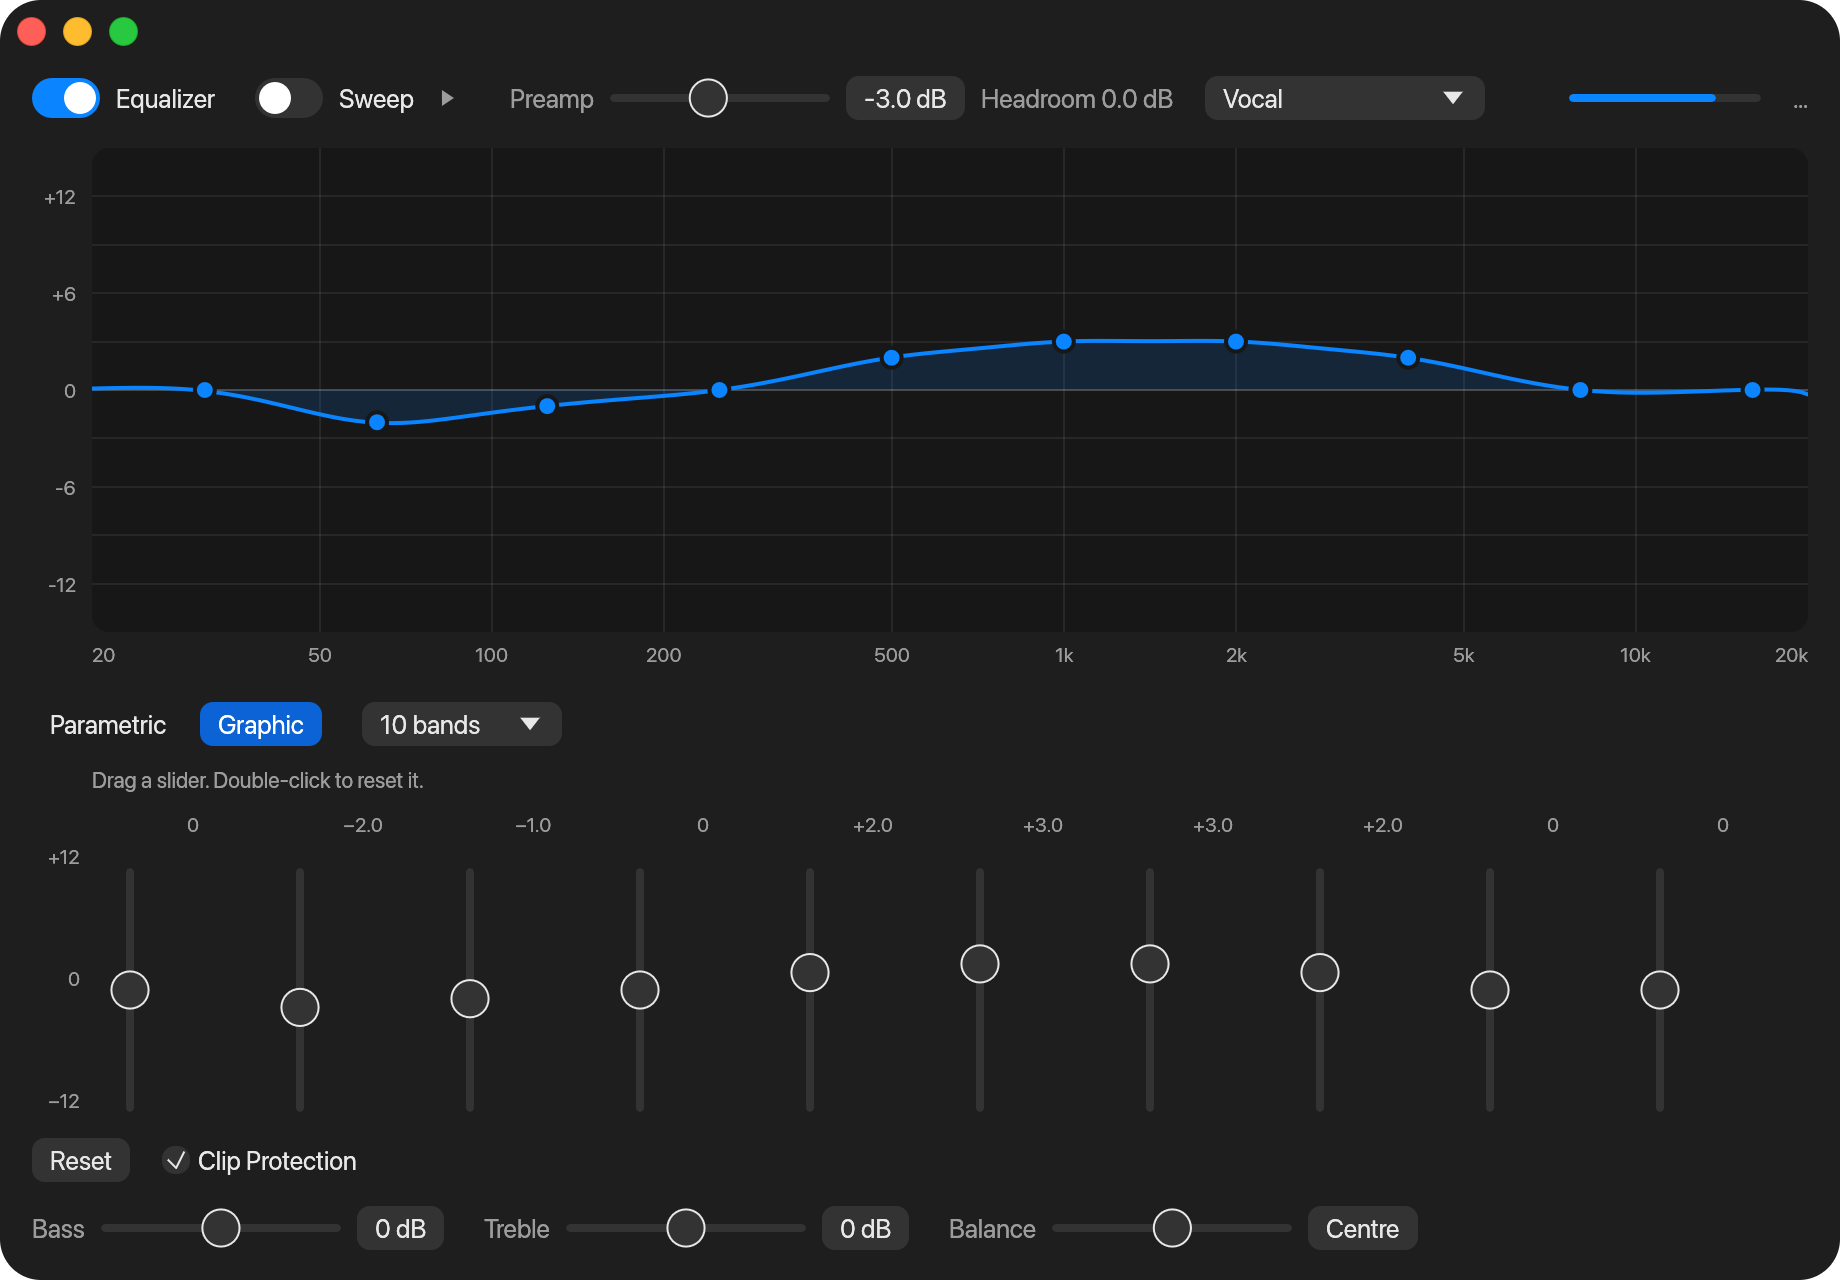
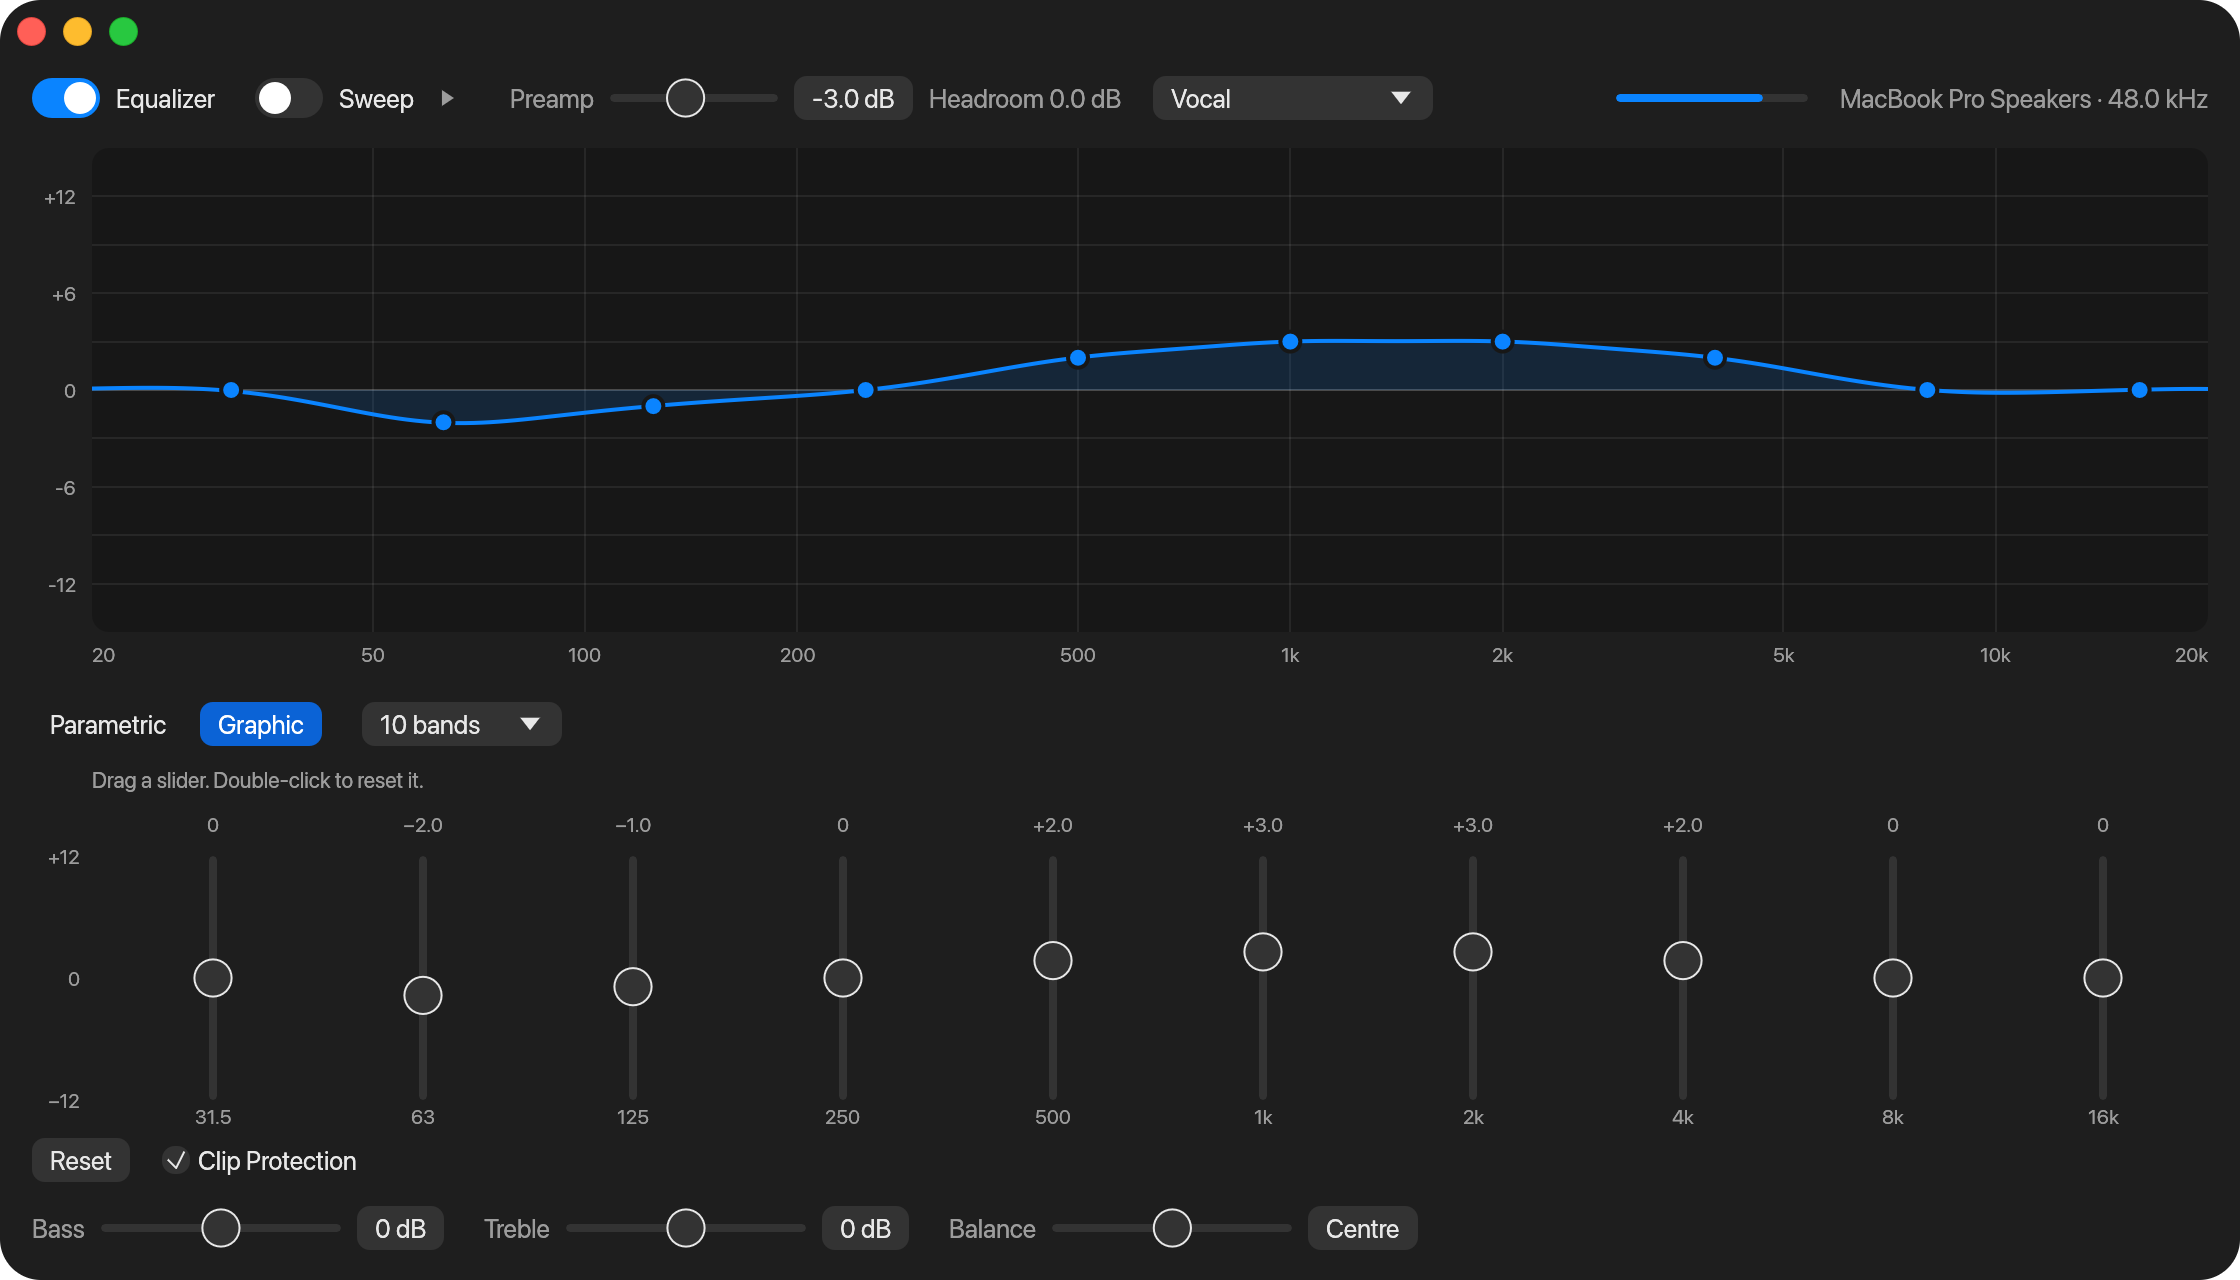
fix: graphic labels and top-end overshoot, sweep panel placement, device name
- Graphic mode: vertical item spacing pushed the frequency labels out of each slider's
  column, hiding them; and egui puts a vertical slider at the left of its space, so the
  sliders sat left of their labels. Both now line up.
- Graphic EQ: the fit points beyond the last slider fell above 0.45 times the sample rate
  and were dropped, leaving the top end unconstrained. Raising only the top slider by
  6 dB peaked at up to +28.7 dB near Nyquist. They are pulled down to the top of the fit
  range now, and stay within 1 dB of the slider up to 20 kHz.
- The sweep settings panel covered the curve where the sweep and the cut are drawn. It
  sits low on the right, beside the band list. Its progress readout is no longer cut off.
- The Sweep switch left no room for the device name at the default size. The window
  opens 1120 pt wide, the preamp slider is shorter, and the name and rate fit.

diff --git a/docs/index.html b/docs/index.html
@@ -125,7 +125,7 @@ footer { color: var(--muted); font-size: 14px; padding-top: 48px; padding-bottom
 <main>
   <picture>
     <source media="(prefers-color-scheme: dark)" srcset="screenshot-dark.png">
-    <img src="screenshot-light.png" width="1840" height="1280"
+    <img src="screenshot-light.png" width="2240" height="1280"
       alt="EQ for macOS showing a frequency response curve with five draggable bands, a preset menu, a preamp slider, a band list and bass, treble and balance controls">
   </picture>
 

diff --git a/src/ui/graphic.rs b/src/ui/graphic.rs
@@ -48,7 +48,8 @@ pub fn sliders(ui: &mut Ui, graphic: &mut Graphic) {
             .id_salt(("graphic", count))
             .auto_shrink([false, true])
             .show(ui, |ui| {
-                ui.spacing_mut().item_spacing.x = 0.0;
+                // The track's height leaves room for the labels and nothing else, so no gaps.
+                ui.spacing_mut().item_spacing = vec2(0.0, 0.0);
                 ui.spacing_mut().slider_width = track.max(40.0);
                 for (index, (gain, &freq)) in graphic.gains_db.iter_mut().zip(centres).enumerate() {
                     ui.allocate_ui_with_layout(
@@ -67,13 +68,21 @@ pub fn sliders(ui: &mut Ui, graphic: &mut Graphic) {
                                 );
                             }
                             ui.add_space(8.0);
-                            let slider = ui.add(
-                                Slider::new(gain, -SLIDER_MAX_DB..=SLIDER_MAX_DB)
-                                    .vertical()
-                                    .step_by(0.5)
-                                    .show_value(false)
-                                    .trailing_fill(false),
-                            );
+                            // egui puts a vertical slider at the left of its space, so it is
+                            // indented to sit in the middle of the column, under its labels.
+                            let thickness = ui.spacing().interact_size.y;
+                            let slider = ui
+                                .horizontal(|ui| {
+                                    ui.add_space(((column - thickness) / 2.0).max(0.0));
+                                    ui.add(
+                                        Slider::new(gain, -SLIDER_MAX_DB..=SLIDER_MAX_DB)
+                                            .vertical()
+                                            .step_by(0.5)
+                                            .show_value(false)
+                                            .trailing_fill(false),
+                                    )
+                                })
+                                .inner;
                             if slider.double_clicked() {
                                 *gain = 0.0;
                             }

diff --git a/src/dsp/graphic.rs b/src/dsp/graphic.rs
@@ -172,9 +172,12 @@ fn fit_points(centres: &[f32], sample_rate: f64) -> Vec<(f64, f64)> {
     points.push((last, SLIDER_WEIGHT));
     for octaves in BEYOND_OCTAVES {
         points.push((first / 2f64.powf(octaves), 1.0));
-        points.push((last * 2f64.powf(octaves), 1.0));
+        // Above the last slider the curve stays flat. Points past the top of the range
+        // are pulled down to it rather than dropped, or nothing would hold the response
+        // between the last slider and Nyquist, and raising that slider alone overshot there.
+        points.push(((last * 2f64.powf(octaves)).min(top), 1.0));
     }
-    points.retain(|&(f, _)| f < top && f >= 10.0);
+    points.retain(|&(f, _)| f <= top && f >= 10.0);
     points
 }
 
@@ -405,6 +408,24 @@ mod tests {
                         );
                     }
                 }
+            }
+        }
+    }
+
+    #[test]
+    fn raising_the_top_slider_does_not_overshoot_near_nyquist() {
+        for sample_rate in [44_100.0, 48_000.0, 96_000.0] {
+            for count in COUNTS {
+                let mut gains = vec![0.0; count as usize];
+                *gains.last_mut().unwrap() = 6.0;
+                let filters = design(count, &gains, sample_rate);
+                // Up to 20 kHz, or Nyquist if lower: the range the curve shows, and ears hear.
+                let top = (sample_rate * 0.49).min(20_000.0);
+                let worst = (0..400)
+                    .map(|k| 20.0 * (top / 20.0).powf(k as f64 / 399.0))
+                    .map(|f| response(&filters, f, sample_rate))
+                    .fold(f64::MIN, f64::max);
+                assert!(worst < 7.0, "{count} bands at {sample_rate}: peaks at {worst:.1} dB");
             }
         }
     }

diff --git a/src/ui/controls.rs b/src/ui/controls.rs
@@ -81,7 +81,7 @@ pub fn top_bar(ui: &mut Ui, settings: &mut Settings, view: &View, requests: &mut
         ui.add_space(16.0);
         ui.label(RichText::new("Preamp").color(p.secondary));
         // Shorter than elsewhere, to leave the device name room.
-        ui.spacing_mut().slider_width = 110.0;
+        ui.spacing_mut().slider_width = 84.0;
         let preamp = ui
             .add(
                 Slider::new(&mut state.preamp_db, -MAX_GAIN_DB..=MAX_GAIN_DB)
@@ -202,8 +202,7 @@ pub fn sweep_panel(ui: &mut Ui, state: &mut EqState, playing: Option<(f32, f32)>
         ui.label(RichText::new("Sweep").strong());
         ui.with_layout(Layout::right_to_left(Align::Center), |ui| {
             if let Some((freq, progress)) = playing {
-                let cap = format!("{} of {}", format_freq(freq), format_freq(sweep.end_freq));
-                ui.add(ProgressBar::new(progress).desired_width(96.0).text(cap));
+                ui.add(ProgressBar::new(progress).desired_width(120.0).text(format_freq(freq)));
             }
         });
     });

diff --git a/src/ui/mod.rs b/src/ui/mod.rs
@@ -124,12 +124,13 @@ pub fn window(ui: &mut Ui, settings: &mut Settings, selected: &mut Option<usize>
         })
         .response
         .rect;
-    // A floating panel for the sweep's settings, next to the button that opens it.
+    // A floating panel for the sweep's settings, low on the right where the band list
+    // leaves room, so it never hides the curve the sweep is drawn on.
     if view.sweep_open {
         let mut open = true;
         Window::new("Sweep settings")
             .id(eframe::egui::Id::new("sweep-settings"))
-            .anchor(Align2::RIGHT_TOP, vec2(-16.0, 96.0))
+            .anchor(Align2::RIGHT_BOTTOM, vec2(-16.0, -64.0))
             .resizable(false)
             .collapsible(false)
             .open(&mut open)

diff --git a/src/main.rs b/src/main.rs
@@ -190,7 +190,7 @@ fn window() {
     let options = eframe::NativeOptions {
         viewport: egui::ViewportBuilder::default()
             .with_title("EQ")
-            .with_inner_size([920.0, 640.0])
+            .with_inner_size([1120.0, 640.0])
             .with_min_inner_size([640.0, 440.0])
             // Content runs under a transparent title bar so the window reads as one surface.
             .with_fullsize_content_view(true)

diff --git a/src/ui/screenshots.rs b/src/ui/screenshots.rs
@@ -15,7 +15,7 @@ use egui_kittest::Harness;
 use image::RgbaImage;
 
 /// The window's default size in points, drawn at Retina scale.
-const SIZE: egui::Vec2 = vec2(920.0, 640.0);
+const SIZE: egui::Vec2 = vec2(1120.0, 640.0);
 const SCALE: f32 = 2.0;
 /// Window corner radius in points, as macOS draws it.
 const CORNER: f32 = 20.5;
